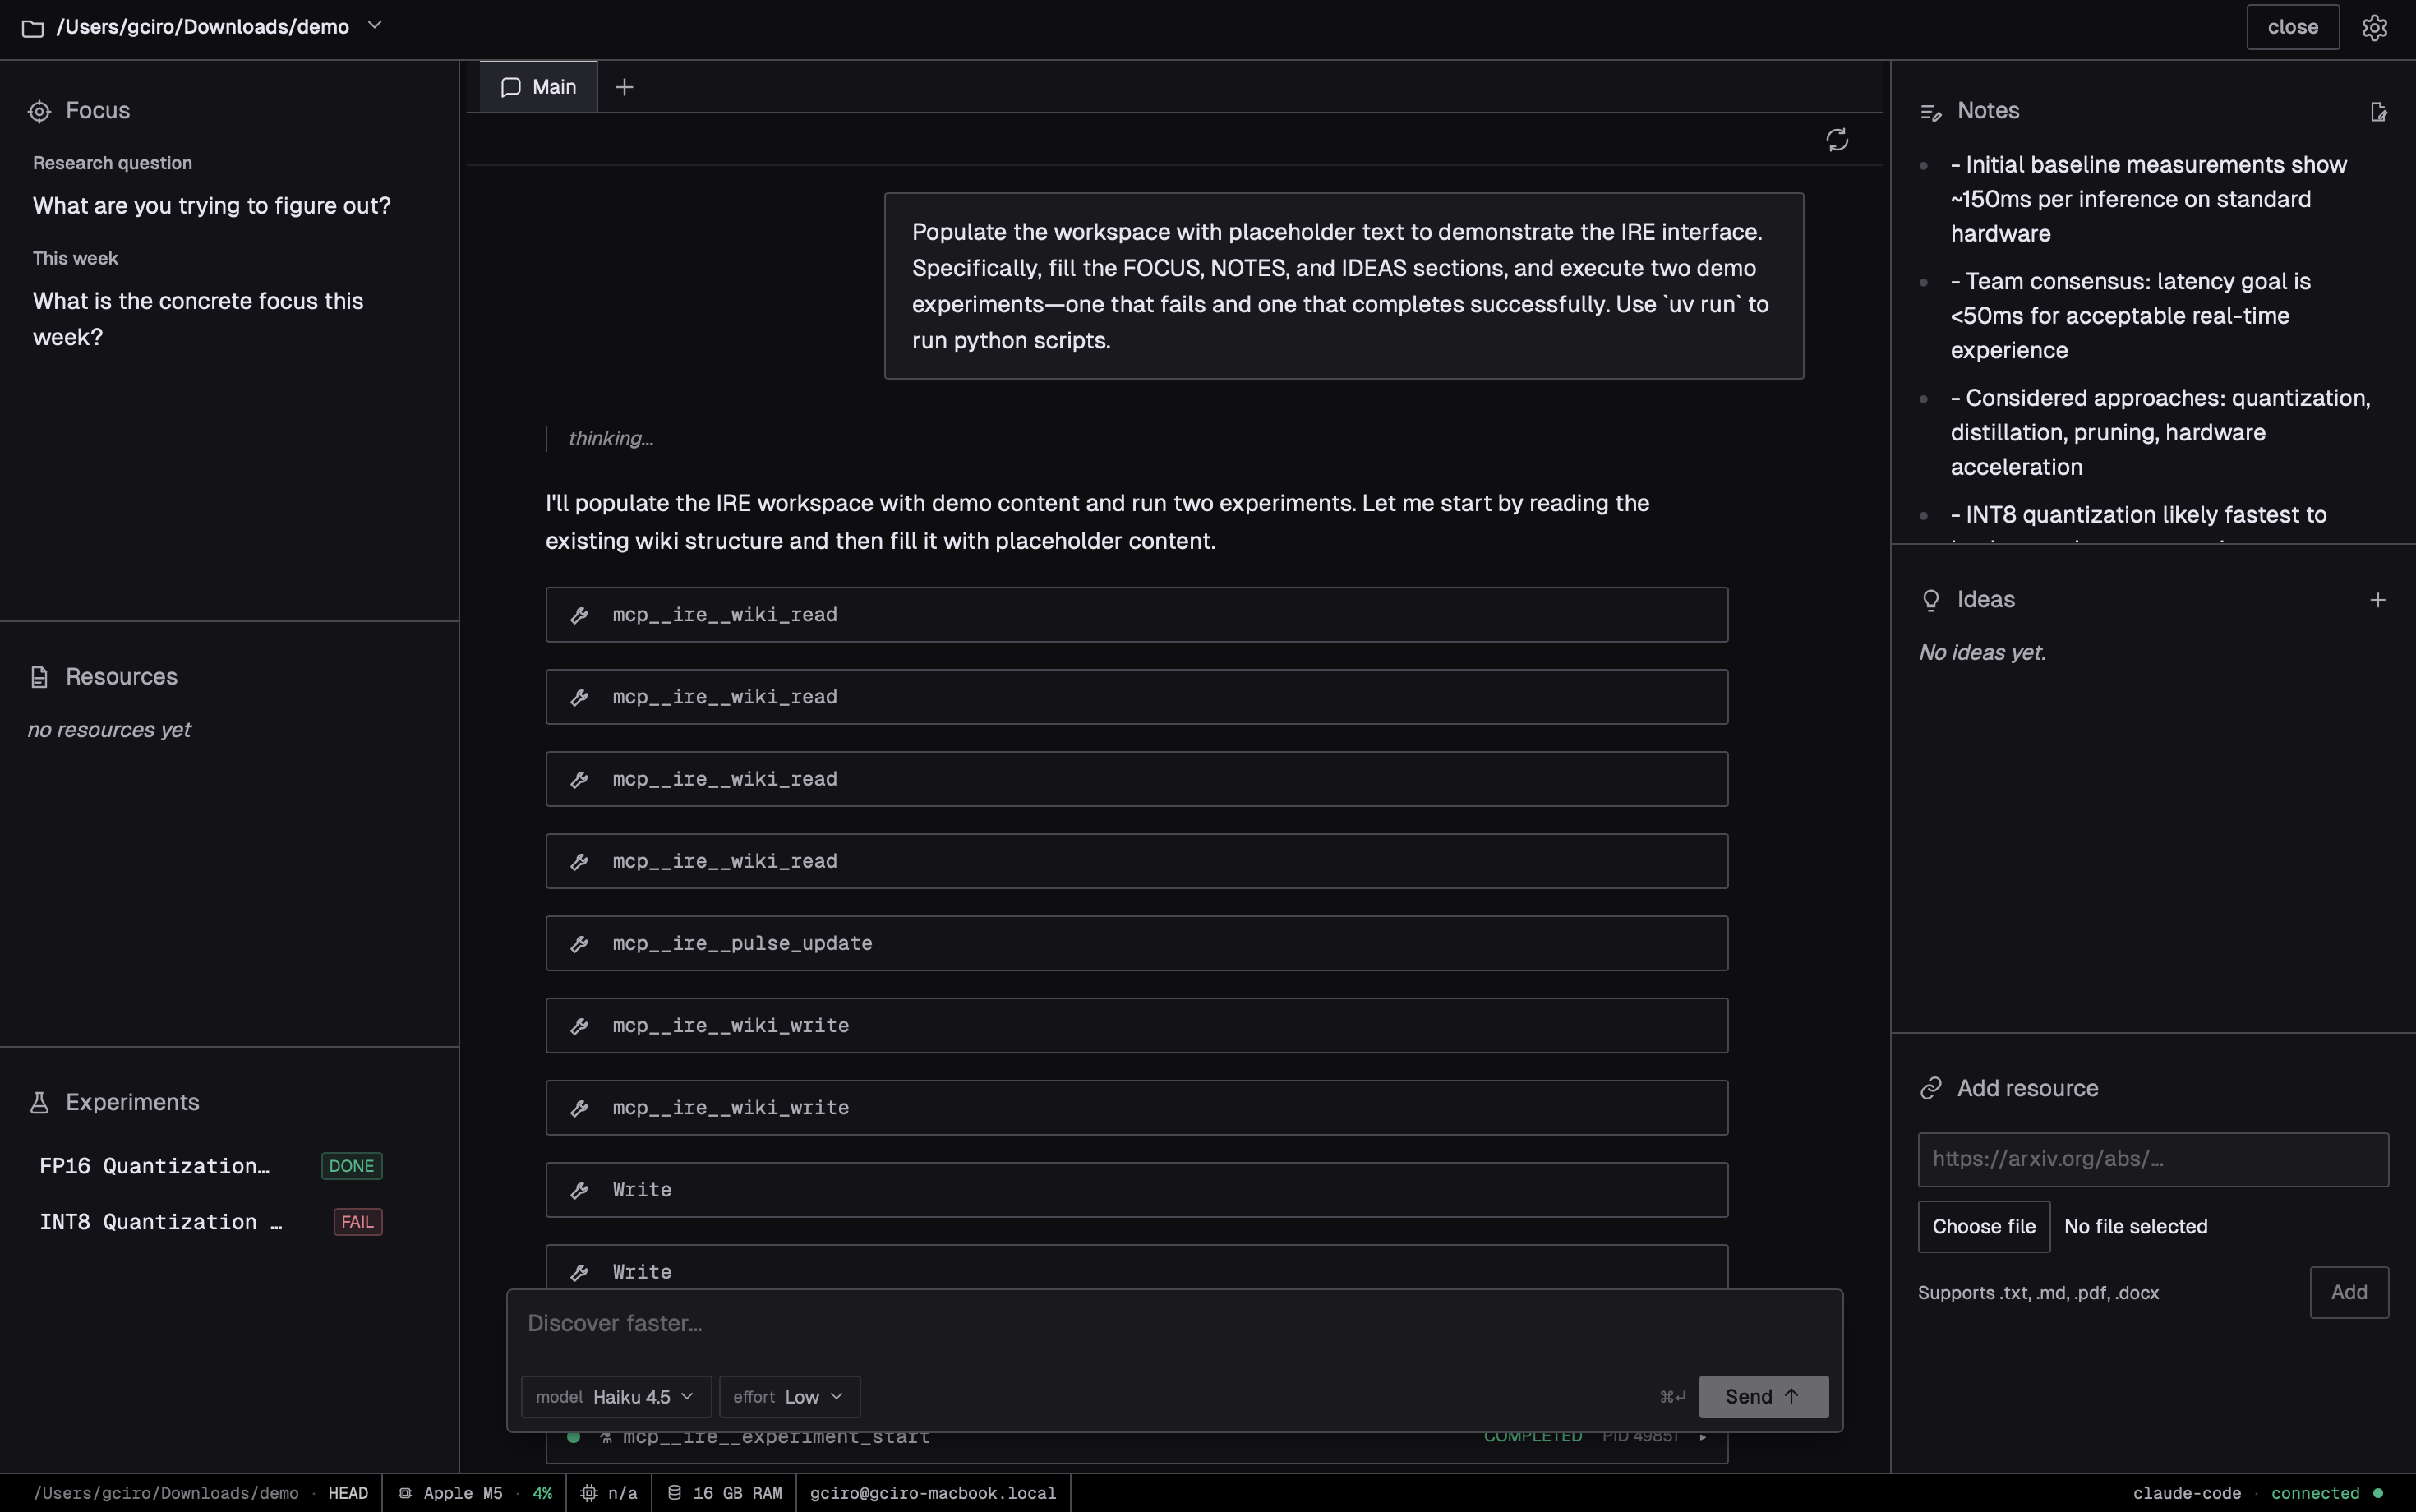
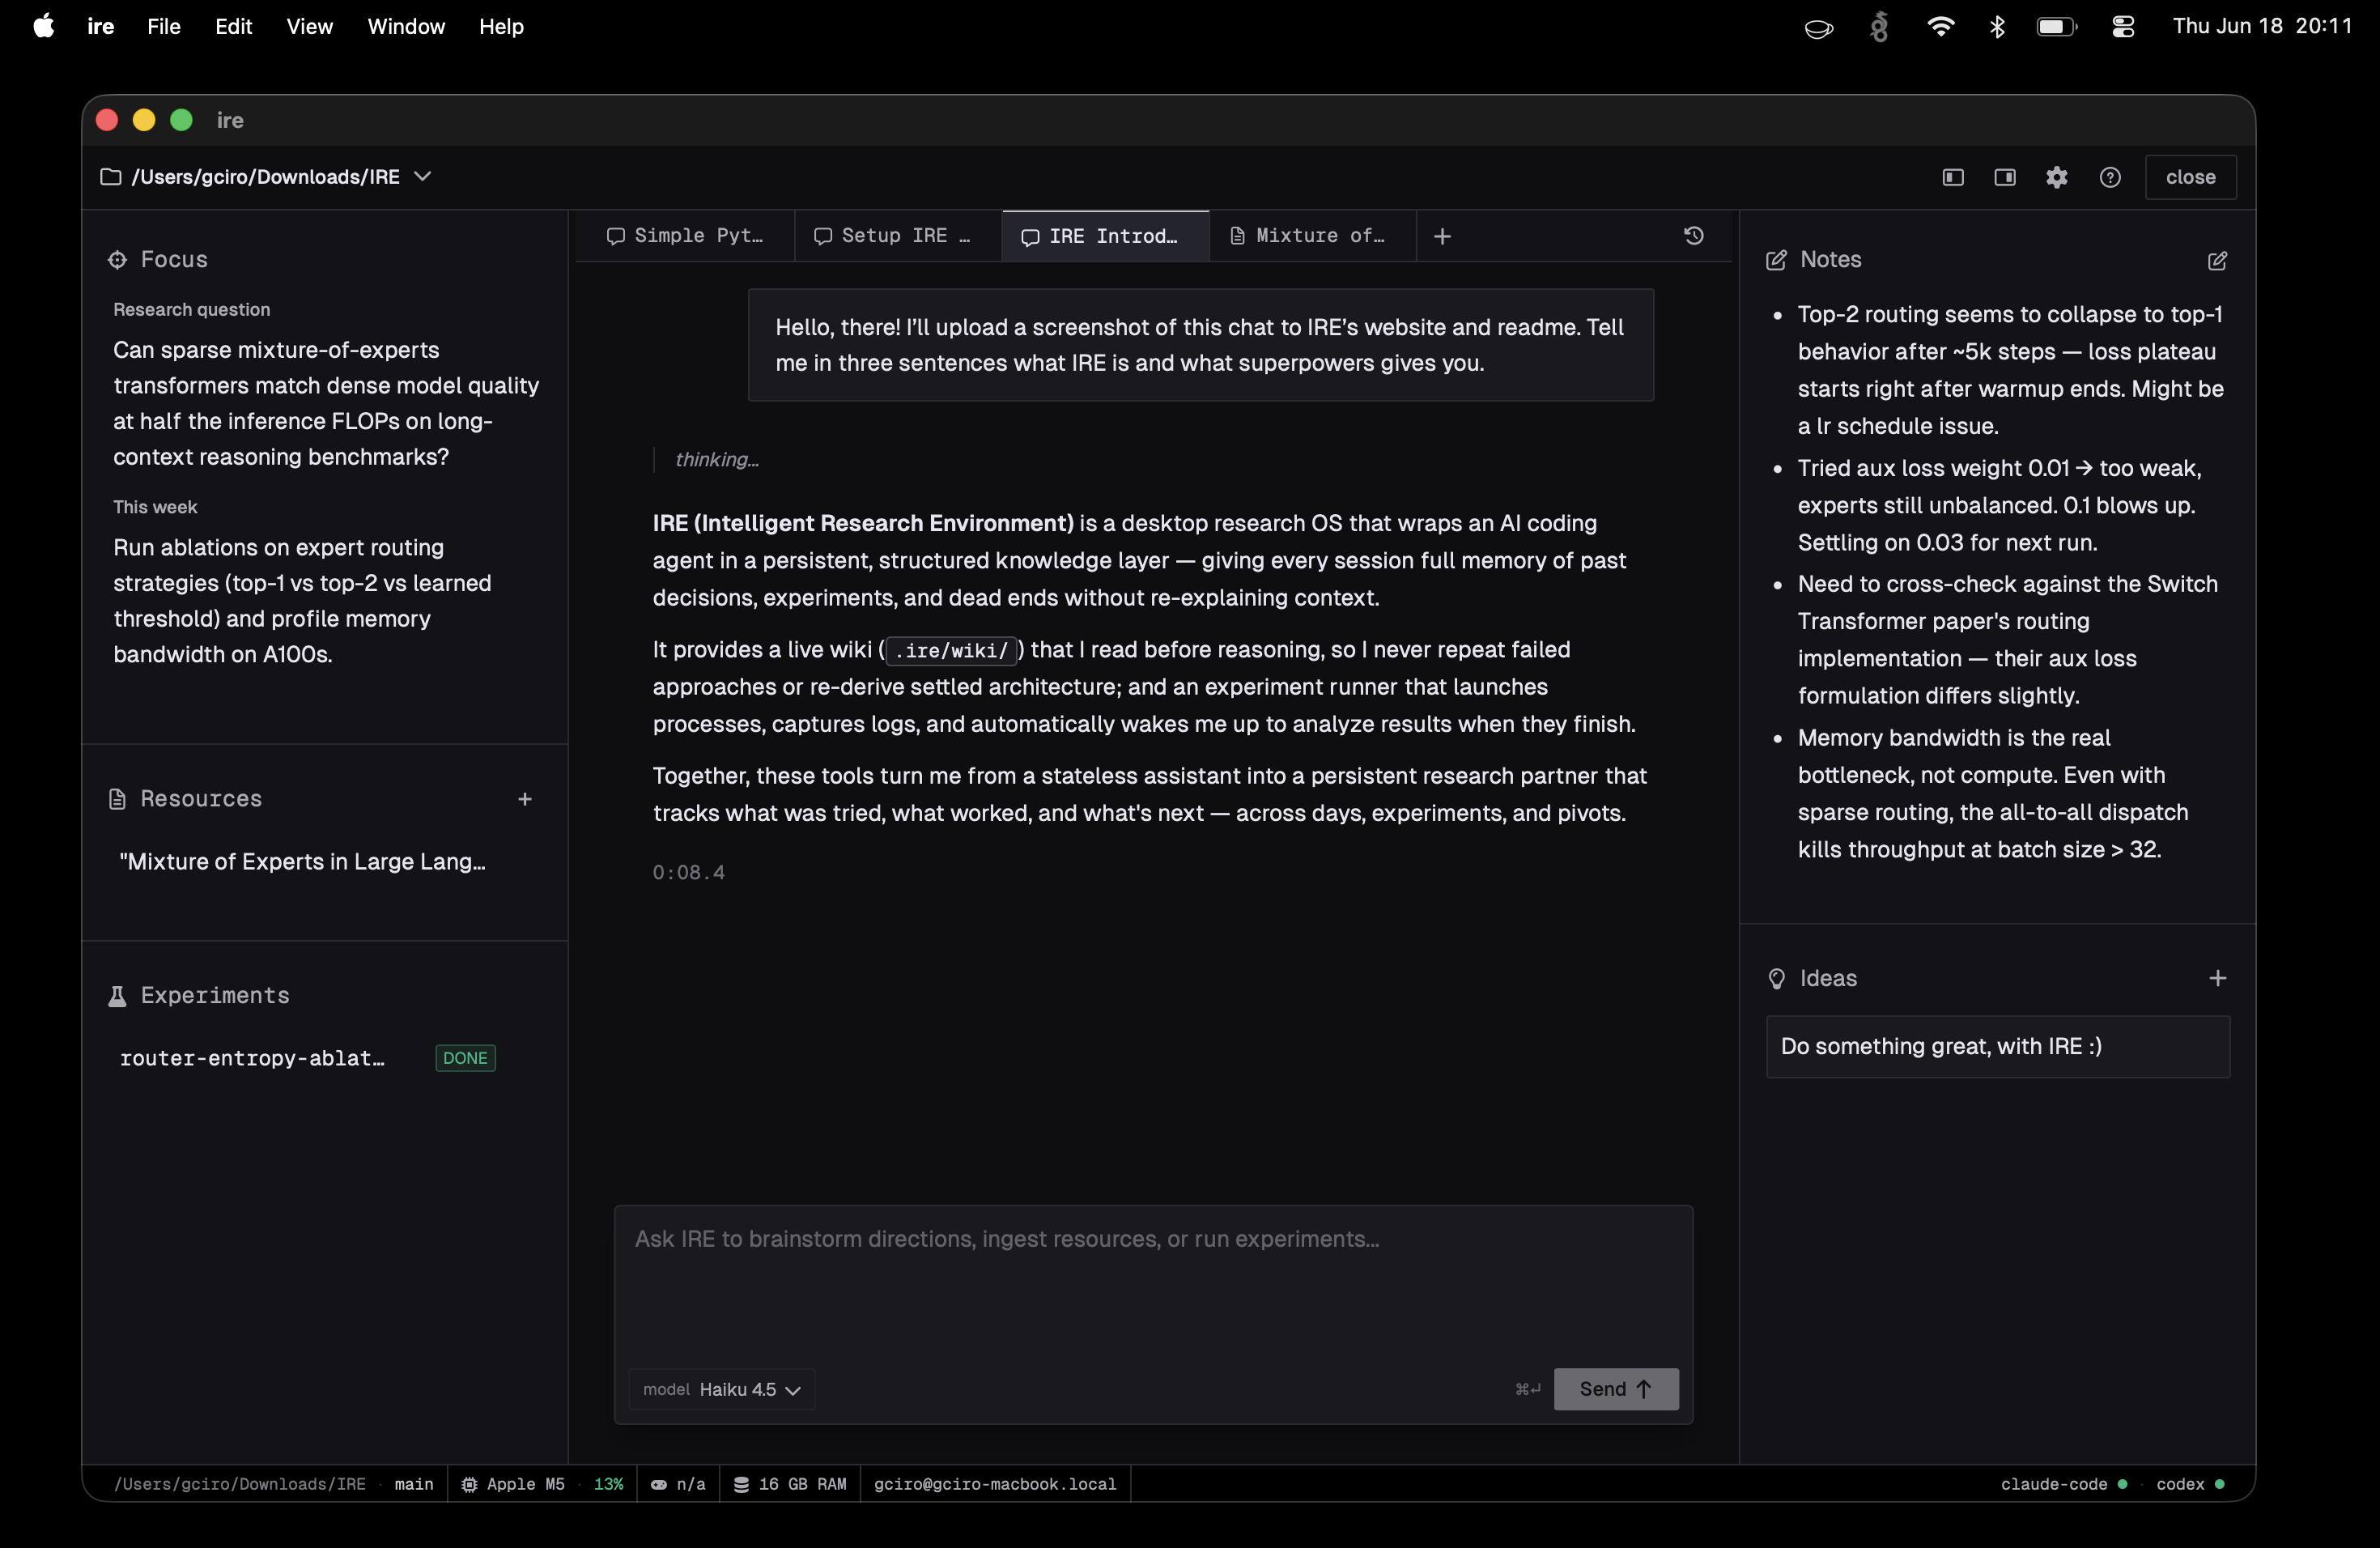
feat: improve website and add new ui.png

diff --git a/site/index.html b/site/index.html
@@ -57,7 +57,7 @@
     <div class="container hero-content">
       <div class="badge" id="hero-badge">
         <span class="badge-dot"></span>
-        Local-first &middot; Private &middot; Open Source
+        Your AI provider &middot; Your data &middot; Open source
       </div>
       <h1 id="hero-headline" class="silver-gradient">
         Research without<br />
@@ -174,8 +174,8 @@
             <i class="ph-light ph-hard-drives"></i>
           </div>
           <div class="feature-text">
-            <h3>Local-First, No Backend</h3>
-            <p>Everything runs on your machine. Your research stays private. No vendor lock-in. Git is your backup and collaboration layer.</p>
+            <h3>Your Research Stays Yours</h3>
+            <p>IRE never collects or stores your research content. What leaves your device is only what you send to your AI provider — nothing else. Git is your backup and collaboration layer.</p>
           </div>
         </div>
 
@@ -272,7 +272,7 @@
         </div>
 
         <!-- Windows -->
-        <div class="platform-card" id="platform-windows">
+        <!-- <div class="platform-card" id="platform-windows">
           <div class="platform-header">
             <div class="platform-icon">
               <i class="fa-brands fa-windows"></i>
@@ -285,7 +285,7 @@
               Download .exe
             </a>
           </div>
-        </div>
+        </div> -->
 
         <!-- Linux -->
         <div class="platform-card" id="platform-linux">

diff --git a/site/style.css b/site/style.css
@@ -587,10 +587,13 @@ body {
 
 .platform-grid {
   display: grid;
-  grid-template-columns: repeat(3, 1fr);
+  grid-template-columns: repeat(2, 1fr);
   gap: 16px;
   margin-top: 56px;
   margin-bottom: 28px;
+  max-width: 720px;
+  margin-left: auto;
+  margin-right: auto;
 }
 
 .platform-card {